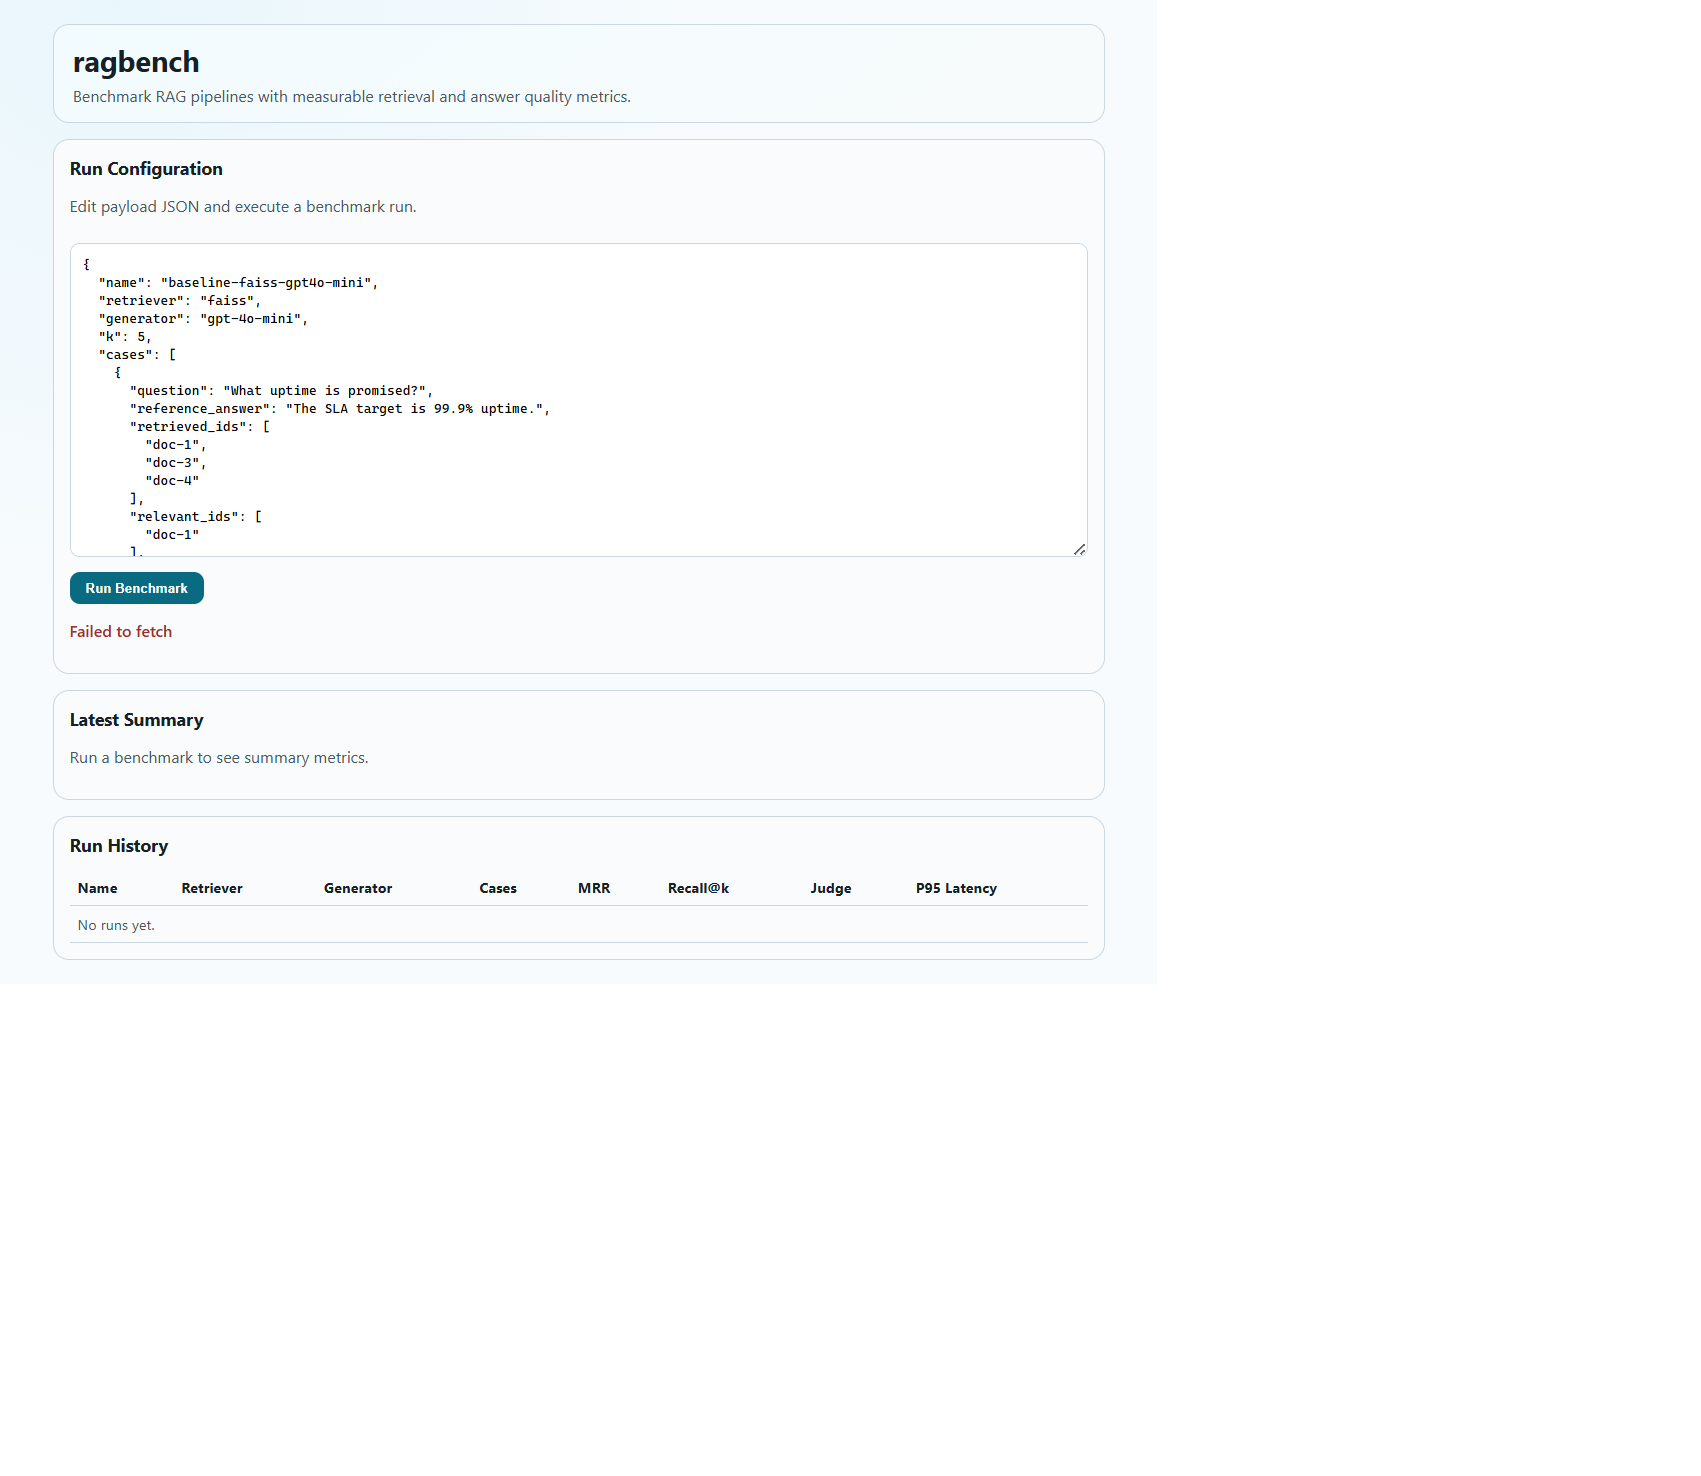
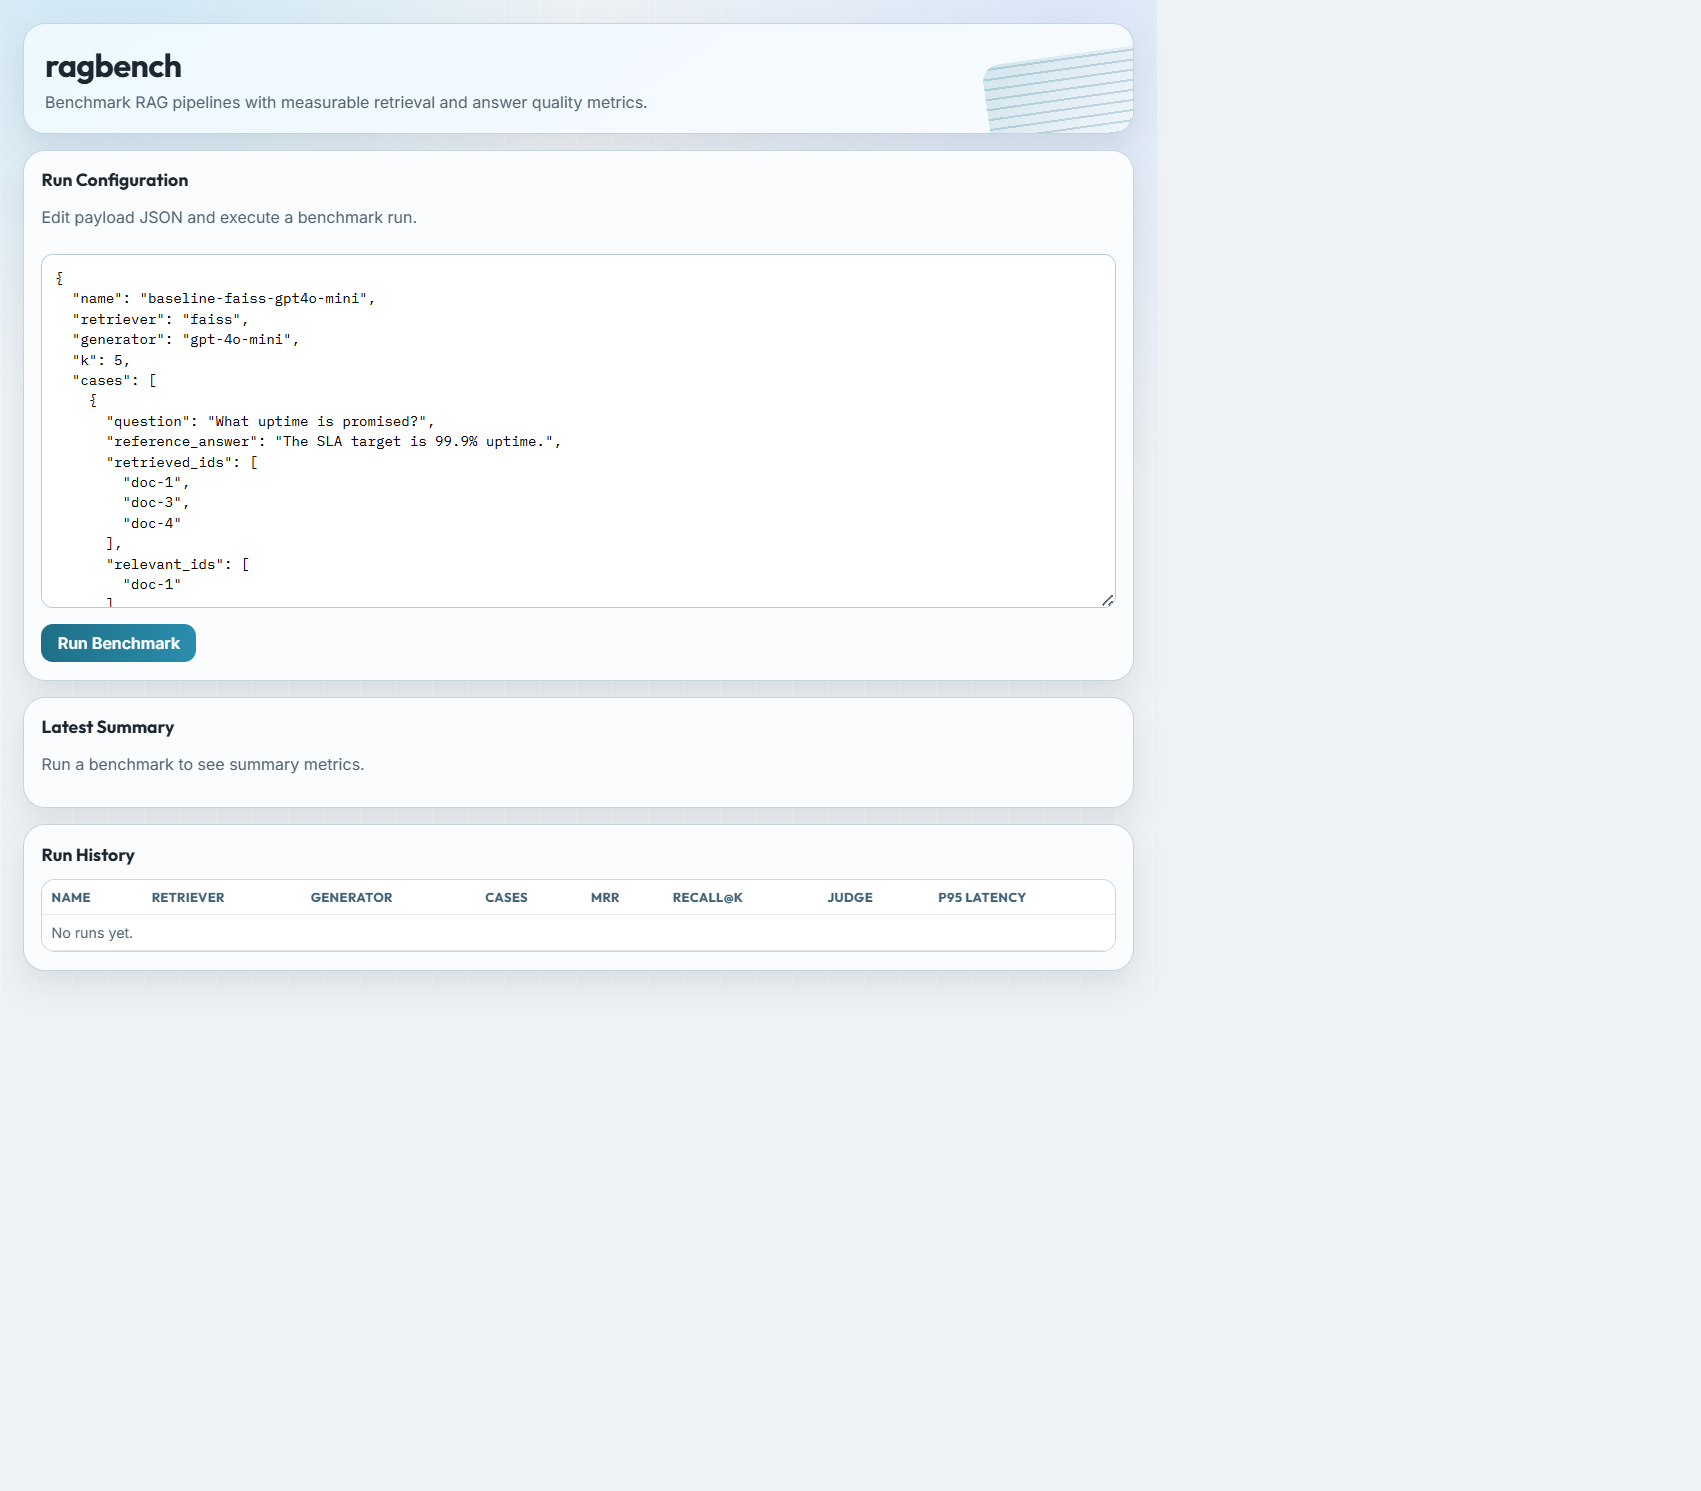
feat(ui): refresh styling and screenshots

Changed region(s): [[0.0, 0.0, 0.6855, 0.6545]]

diff --git a/frontend/src/styles.css b/frontend/src/styles.css
@@ -1,12 +1,18 @@
 /* Generated by GitHub Copilot */
+@import url("https://fonts.googleapis.com/css2?family=Outfit:wght@500;600;700;800&family=IBM+Plex+Mono:wght@400;500&family=Inter:wght@400;500;600&display=swap");
+
 :root {
-    --ink: #172026;
-    --muted: #495864;
-    --panel: #f9fbfc;
-    --line: #cad7e1;
-    --accent: #096b82;
-    --accent-strong: #07495a;
-    --error: #a12d2f;
+    --rb-bg: #eef2f5;
+    --rb-paper: #fafcfe;
+    --rb-card: #ffffff;
+    --rb-line: #c6d4df;
+    --rb-ink: #1d2730;
+    --rb-muted: #526474;
+    --rb-brand: #1e6f87;
+    --rb-brand-strong: #17566b;
+    --rb-error: #a33135;
+    --rb-focus: #ff9f4f;
+    --rb-shadow: 0 14px 30px rgb(29 39 48 / 10%);
 }
 
 * {
@@ -15,144 +21,205 @@
 
 body {
     margin: 0;
-    font-family: "Segoe UI", "Source Sans Pro", sans-serif;
-    color: var(--ink);
-    background: radial-gradient(circle at 10% 0%, #e9f6fc, #f8fbfe 45%);
+    color: var(--rb-ink);
+    font-family: "Inter", sans-serif;
+    background:
+        radial-gradient(circle at 10% -8%, #cce7f6 0%, transparent 33%),
+        radial-gradient(circle at 92% 0%, #dbe7f8 0%, transparent 35%),
+        repeating-linear-gradient(90deg, rgb(255 255 255 / 32%) 0 1px, transparent 1px 36px),
+        var(--rb-bg);
 }
 
 .page {
-    max-width: 1100px;
+    max-width: 1160px;
     margin: 0 auto;
-    padding: 1.5rem;
+    padding: clamp(1rem, 2vw, 2rem);
     display: grid;
     gap: 1rem;
 }
 
+.hero,
+.panel {
+    border: 1px solid var(--rb-line);
+    border-radius: 22px;
+    background: var(--rb-paper);
+    box-shadow: var(--rb-shadow);
+}
+
 .hero {
-    border: 1px solid var(--line);
-    border-radius: 16px;
-    padding: 1rem 1.2rem;
-    background: linear-gradient(140deg, #f2fbff, #f8fbfc);
+    position: relative;
+    overflow: hidden;
+    padding: clamp(1rem, 1.8vw, 1.5rem);
+    background: linear-gradient(145deg, #edf8ff, #f8fbff);
+    animation: rb-float-in 0.55s ease-out both;
+}
+
+.hero::after {
+    content: "";
+    position: absolute;
+    right: -30px;
+    bottom: -36px;
+    width: 175px;
+    height: 115px;
+    border-radius: 18px;
+    background:
+        linear-gradient(135deg, rgb(30 111 135 / 16%), transparent),
+        repeating-linear-gradient(0deg, rgb(30 111 135 / 22%) 0 2px, transparent 2px 10px);
+    transform: rotate(-8deg);
 }
 
 .hero h1 {
     margin: 0;
-    font-size: 1.8rem;
+    font-family: "Outfit", sans-serif;
+    font-size: clamp(1.8rem, 2.8vw, 2.8rem);
+    letter-spacing: -0.02em;
 }
 
 .hero p {
-    margin: 0.35rem 0 0;
-    color: var(--muted);
+    margin: 0.45rem 0 0;
+    color: var(--rb-muted);
 }
 
 .panel {
-    border: 1px solid var(--line);
-    border-radius: 16px;
-    padding: 1rem;
-    background: var(--panel);
+    padding: clamp(0.9rem, 1.5vw, 1.2rem);
+    animation: rb-float-in 0.5s ease-out both;
+}
+
+.panel:nth-of-type(2) {
+    animation-delay: 0.08s;
+}
+
+.panel:nth-of-type(3) {
+    animation-delay: 0.16s;
+}
+
+.panel:nth-of-type(4) {
+    animation-delay: 0.24s;
 }
 
 .panel h2 {
     margin: 0;
     font-size: 1.1rem;
+    font-family: "Outfit", sans-serif;
 }
 
 .subtle {
-    color: var(--muted);
+    color: var(--rb-muted);
+}
+
+textarea,
+button {
+    font: inherit;
 }
 
 textarea {
     width: 100%;
     margin-top: 0.7rem;
-    border: 1px solid var(--line);
-    border-radius: 10px;
-    padding: 0.75rem;
-    font-family: "Cascadia Code", "Consolas", monospace;
-    line-height: 1.35;
+    border: 1px solid #b5c9d8;
+    border-radius: 12px;
+    padding: 0.78rem;
+    font-family: "IBM Plex Mono", monospace;
+    font-size: 0.88rem;
+    line-height: 1.45;
+    background: #fff;
     resize: vertical;
 }
 
-textarea:focus,
-button:focus {
-    outline: 3px solid #6fb6ff;
+textarea:focus-visible,
+button:focus-visible {
+    outline: 3px solid var(--rb-focus);
     outline-offset: 2px;
 }
 
 .actions {
-    margin-top: 0.7rem;
+    margin-top: 0.75rem;
 }
 
 button {
     border: 0;
-    border-radius: 10px;
-    padding: 0.55rem 1rem;
-    background: var(--accent);
-    color: white;
+    border-radius: 12px;
+    padding: 0.58rem 1.02rem;
+    background: linear-gradient(95deg, var(--rb-brand), #2b8ead);
+    color: #fff;
     font-weight: 700;
     cursor: pointer;
+    transition: transform 0.2s ease, box-shadow 0.2s ease;
 }
 
-button:hover {
-    background: var(--accent-strong);
+button:hover:not(:disabled) {
+    transform: translateY(-1px);
+    box-shadow: 0 10px 17px rgb(30 111 135 / 24%);
 }
 
 button:disabled {
-    opacity: 0.65;
+    opacity: 0.68;
     cursor: not-allowed;
 }
 
 .error {
-    color: var(--error);
+    color: var(--rb-error);
     font-weight: 600;
 }
 
 .score-grid {
-    margin-top: 0.8rem;
+    margin-top: 0.9rem;
     display: grid;
-    grid-template-columns: repeat(auto-fit, minmax(160px, 1fr));
+    grid-template-columns: repeat(auto-fit, minmax(170px, 1fr));
     gap: 0.7rem;
 }
 
 .score-card {
-    border: 1px solid var(--line);
-    border-radius: 10px;
-    padding: 0.7rem;
-    background: #ffffff;
+    border: 1px solid #c5d5df;
+    border-radius: 14px;
+    padding: 0.78rem;
+    background: linear-gradient(150deg, #fff, #f6fbff);
 }
 
 .score-card h3 {
     margin: 0;
     font-size: 0.95rem;
+    font-family: "Outfit", sans-serif;
 }
 
 .score-value {
-    margin: 0.3rem 0 0;
-    font-size: 1.15rem;
+    margin: 0.35rem 0 0;
+    font-size: 1.24rem;
     font-weight: 700;
 }
 
 .score-hint {
-    margin: 0.25rem 0 0;
-    color: var(--muted);
-    font-size: 0.86rem;
+    margin: 0.28rem 0 0;
+    color: var(--rb-muted);
+    font-size: 0.83rem;
 }
 
 .table-wrap {
-    margin-top: 0.8rem;
+    margin-top: 0.85rem;
     overflow-x: auto;
+    border: 1px solid #c8d5df;
+    border-radius: 14px;
 }
 
 table {
     width: 100%;
     border-collapse: collapse;
+    background: #fff;
 }
 
 th,
 td {
     text-align: left;
-    border-bottom: 1px solid var(--line);
-    padding: 0.5rem;
-    font-size: 0.9rem;
+    border-bottom: 1px solid #e2e9ef;
+    padding: 0.56rem;
+    font-size: 0.89rem;
+}
+
+th {
+    font-family: "Outfit", sans-serif;
+    font-size: 0.81rem;
+    text-transform: uppercase;
+    letter-spacing: 0.03em;
+    color: #406176;
 }
 
 .sr-only {
@@ -166,12 +233,29 @@ td {
     overflow: hidden;
 }
 
+@keyframes rb-float-in {
+    from {
+        opacity: 0;
+        transform: translateY(12px);
+    }
+
+    to {
+        opacity: 1;
+        transform: translateY(0);
+    }
+}
+
 @media (max-width: 640px) {
     .page {
-        padding: 1rem;
+        padding: 0.9rem;
+    }
+
+    .hero,
+    .panel {
+        border-radius: 17px;
     }
 
     .hero h1 {
-        font-size: 1.45rem;
+        font-size: 1.55rem;
     }
 }
